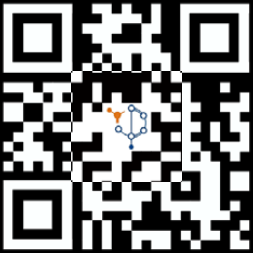
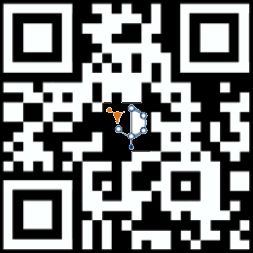
Publish IPCON filament guide

Changed region(s): [[0.2767, 0.2767, 0.7194, 0.7194]]

diff --git a/en.html b/en.html
@@ -398,7 +398,7 @@ body.light th.prod { border-right: none; }
 }
 .ctext b { font-weight: 600; color: var(--ink); }
 
-</style><meta name="ipcon-ai-endpoint" content="https://ipcon-ai.pages.dev/"><link rel="stylesheet" href="assets/tokens.css?v=85a26566"><link rel="stylesheet" href="assets/web.css?v=73619265"><link rel="stylesheet" href="assets/theme-dark.css?v=26d63357"></head><body class=" web">
+</style><meta name="ipcon-ai-endpoint" content="https://ipcon-ai.pages.dev/"><link rel="stylesheet" href="assets/tokens.css?v=85a26566"><link rel="stylesheet" href="assets/web.css?v=73619265"><link rel="stylesheet" href="assets/theme-dark.css?v=43cdcbe1"></head><body class=" web">
 <div class="topbar"></div>
 <div class="hdr">
 <div class="hl">

diff --git a/index.html b/index.html
@@ -398,7 +398,7 @@ body.light th.prod { border-right: none; }
 }
 .ctext b { font-weight: 600; color: var(--ink); }
 
-</style><meta name="ipcon-ai-endpoint" content="https://ipcon-ai.pages.dev/"><link rel="stylesheet" href="assets/tokens.css?v=85a26566"><link rel="stylesheet" href="assets/web.css?v=73619265"><link rel="stylesheet" href="assets/theme-dark.css?v=26d63357"></head><body class=" web">
+</style><meta name="ipcon-ai-endpoint" content="https://ipcon-ai.pages.dev/"><link rel="stylesheet" href="assets/tokens.css?v=85a26566"><link rel="stylesheet" href="assets/web.css?v=73619265"><link rel="stylesheet" href="assets/theme-dark.css?v=43cdcbe1"></head><body class=" web">
 <div class="topbar"></div>
 <div class="hdr">
 <div class="hl">

diff --git a/assets/theme-dark.css b/assets/theme-dark.css
@@ -10,7 +10,6 @@
 [data-theme="dark"] html, [data-theme="dark"] body.web { background-color: var(--c-0b0c10); }
 [data-theme="dark"] .hdr { background: var(--c-0f1015); }
 [data-theme="dark"] .qrs { display: flex; }
-[data-theme="dark"] .qrs img { filter: invert(1); }
 [data-theme="dark"] .hdr-lang, [data-theme="dark"] .hdr-theme { background: var(--c-1a1c22); border-color: var(--c-343640); color: var(--c-e8e8ec); }
 [data-theme="dark"] .sub, [data-theme="dark"] .cl, [data-theme="dark"] .cl.en, [data-theme="dark"] .cl.url { color: var(--c-a0a0a8); }
 [data-theme="dark"] .cl.url a { color: var(--c-8fb4ff); }
